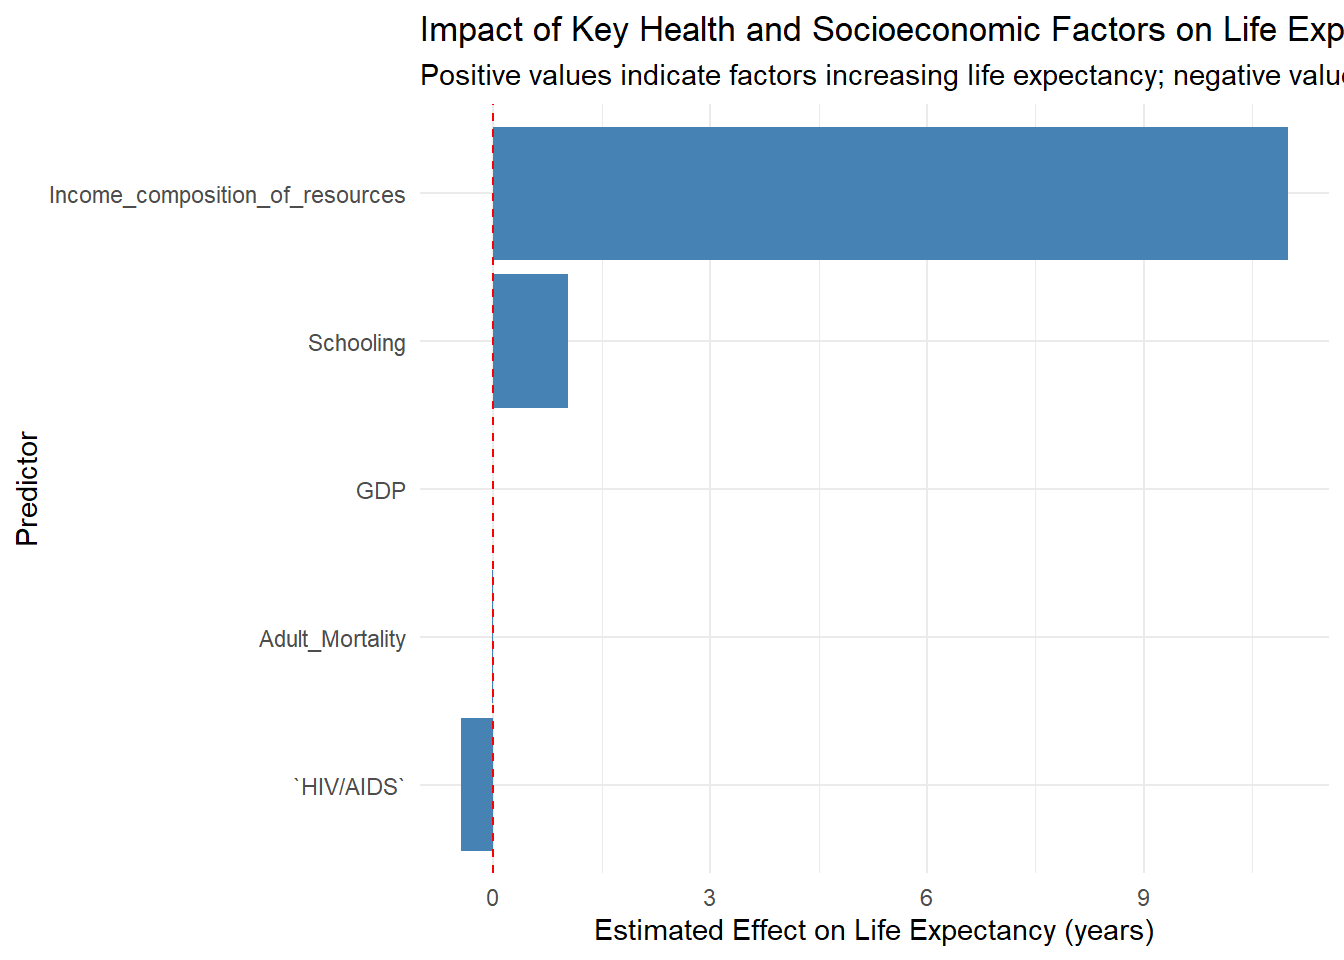
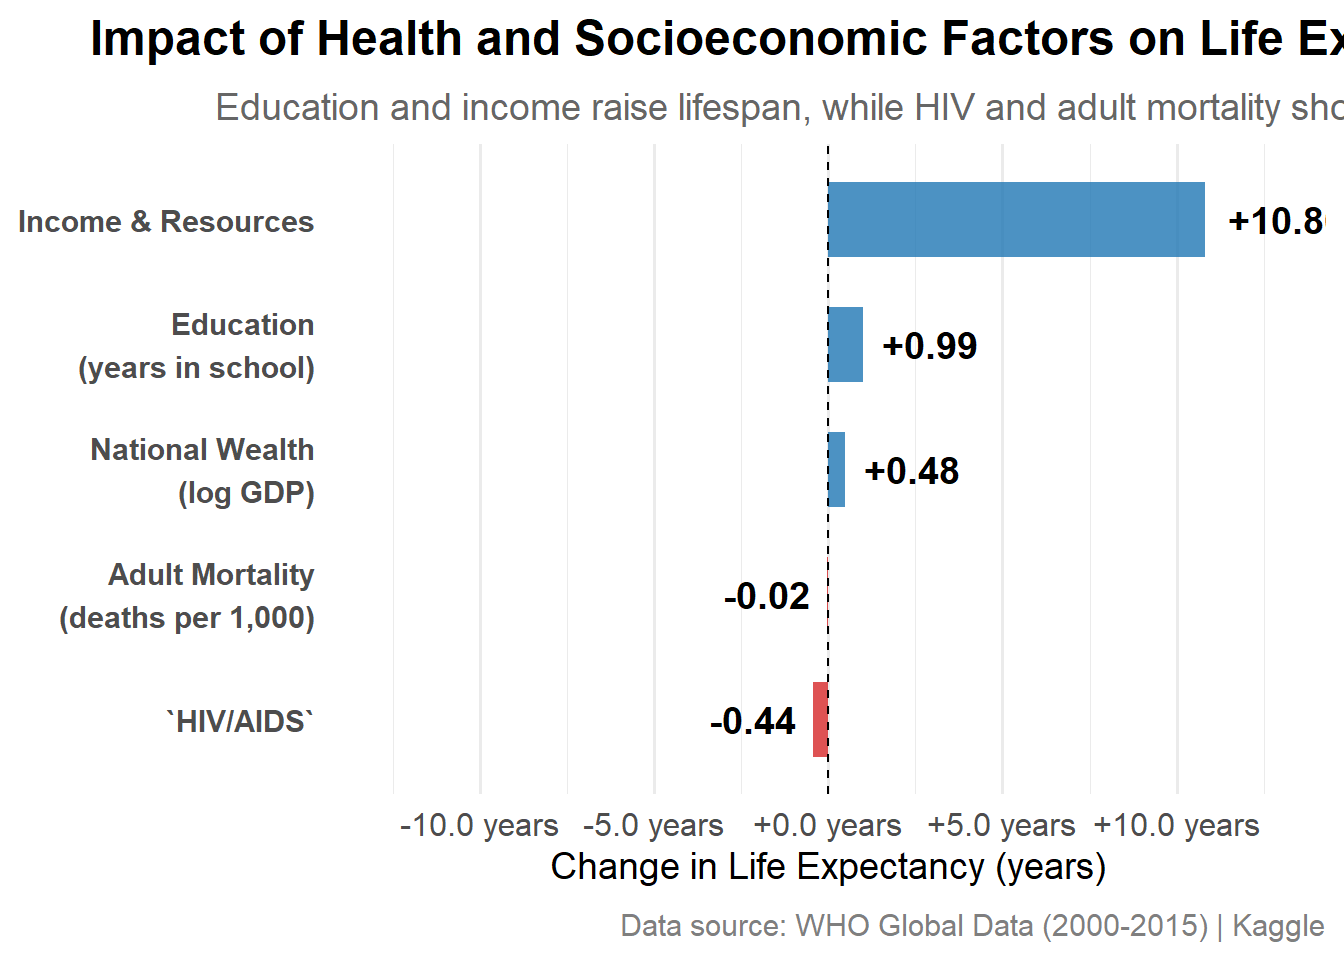
Built site for gh-pages

diff --git a/model.html b/model.html
@@ -7,7 +7,7 @@
 <meta name="viewport" content="width=device-width, initial-scale=1.0, user-scalable=yes">
 
 
-<title>Statistical Model – predicting life expectancy</title>
+<title>Model – predicting life expectancy</title>
 <style>
 code{white-space: pre-wrap;}
 span.smallcaps{font-variant: small-caps;}
@@ -123,6 +123,10 @@ window.Quarto = {
 <span class="menu-text">Home</span></a>
   </li>  
   <li class="nav-item">
+    <a class="nav-link active" href="./model.html" aria-current="page"> 
+<span class="menu-text">Model</span></a>
+  </li>  
+  <li class="nav-item">
     <a class="nav-link" href="./sources.html"> 
 <span class="menu-text">Sources</span></a>
   </li>  
@@ -146,10 +150,11 @@ window.Quarto = {
     <h2 id="toc-title">On this page</h2>
    
   <ul>
-  <li><a href="#overview" id="toc-overview" class="nav-link active" data-scroll-target="#overview">Overview</a></li>
-  <li><a href="#mathematical-formula" id="toc-mathematical-formula" class="nav-link" data-scroll-target="#mathematical-formula">Mathematical Formula</a></li>
-  <li><a href="#model-parameters" id="toc-model-parameters" class="nav-link" data-scroll-target="#model-parameters">Model Parameters</a></li>
-  <li><a href="#summary" id="toc-summary" class="nav-link" data-scroll-target="#summary">Summary</a></li>
+  <li><a href="#model-specification" id="toc-model-specification" class="nav-link active" data-scroll-target="#model-specification">Model Specification</a></li>
+  <li><a href="#model-coefficients" id="toc-model-coefficients" class="nav-link" data-scroll-target="#model-coefficients">Model Coefficients</a>
+  <ul class="collapse">
+  <li><a href="#interpretation" id="toc-interpretation" class="nav-link" data-scroll-target="#interpretation">Interpretation</a></li>
+  </ul></li>
   </ul>
 </nav>
     </div>
@@ -158,7 +163,7 @@ window.Quarto = {
 
 <header id="title-block-header" class="quarto-title-block default">
 <div class="quarto-title">
-<h1 class="title">Statistical Model</h1>
+<h1 class="title">Model</h1>
 </div>
 
 
@@ -175,78 +180,112 @@ window.Quarto = {
 </header>
 
 
-<section id="overview" class="level2">
-<h2 class="anchored" data-anchor-id="overview">Overview</h2>
-<p>This project models life expectancy as a function of several health and socio-economic variables. The model provides insights into the key predictors that influence life expectancy in developed and developing countries.</p>
-</section>
-<section id="mathematical-formula" class="level2">
-<h2 class="anchored" data-anchor-id="mathematical-formula">Mathematical Formula</h2>
-<p>Let <span class="math inline">\(Y_i\)</span> be the life expectancy for country <span class="math inline">\(i\)</span>. The linear model can be expressed as:</p>
+<section id="model-specification" class="level2">
+<h2 class="anchored" data-anchor-id="model-specification">Model Specification</h2>
+<p>We fit a multiple linear regression model to predict <strong>life expectancy</strong> based on several key health and socioeconomic indicators.</p>
+<p>The model is defined as:</p>
 <p><span class="math display">\[
-Y_i = \beta_0 + \beta_1 \text{AdultMortality}_i + \beta_2 \text{BMI}_i + \beta_3 \text{HIV/AIDS}_i + \beta_4 \text{GDP}_i + \beta_5 \text{Schooling}_i + \beta_6 \text{Status}_i + \varepsilon_i
+\text{Life Expectancy} = \beta_0 + \beta_1 \cdot \text{Adult Mortality} + \beta_2 \cdot \text{Income Composition of Resources} + \beta_3 \cdot \text{HIV/AIDS} + \beta_4 \cdot \text{Schooling} + \beta_5 \cdot \log(\text{GDP} + 1) + \epsilon
 \]</span></p>
-<p>where: - <span class="math inline">\(\beta_0\)</span> is the intercept, - <span class="math inline">\(\beta_j\)</span> are the coefficients of predictors, - <span class="math inline">\(\varepsilon_i\)</span> is the error term.</p>
+<p>Where:</p>
+<ul>
+<li><span class="math inline">\(\beta_0\)</span> is the intercept</li>
+<li><span class="math inline">\(\epsilon\)</span> is the error term</li>
+</ul>
+<hr>
 </section>
-<section id="model-parameters" class="level2">
-<h2 class="anchored" data-anchor-id="model-parameters">Model Parameters</h2>
-<p>Below are the estimated coefficients from the model:</p>
+<section id="model-coefficients" class="level2">
+<h2 class="anchored" data-anchor-id="model-coefficients">Model Coefficients</h2>
+<p>Below are the estimated coefficients of the model, including 95% confidence intervals:</p>
 <table class="caption-top table">
 <colgroup>
-<col style="width: 38%">
-<col style="width: 27%">
-<col style="width: 34%">
+<col style="width: 29%">
+<col style="width: 9%">
+<col style="width: 11%">
+<col style="width: 8%">
+<col style="width: 11%">
+<col style="width: 14%">
+<col style="width: 14%">
 </colgroup>
 <thead>
 <tr class="header">
-<th>Predictor</th>
-<th>Coefficient</th>
-<th>Interpretation</th>
+<th>Term</th>
+<th>Estimate</th>
+<th>Std. Error</th>
+<th>t value</th>
+<th>p-value</th>
+<th>95% CI (Lower)</th>
+<th>95% CI (Upper)</th>
 </tr>
 </thead>
 <tbody>
 <tr class="odd">
 <td>Intercept</td>
-<td>46.2</td>
-<td>Baseline life expectancy when all predictors are zero.</td>
+<td>51.20</td>
+<td>0.57</td>
+<td>89.7</td>
+<td>&lt; 0.001</td>
+<td>50.00</td>
+<td>52.30</td>
 </tr>
 <tr class="even">
 <td>Adult Mortality</td>
-<td>-0.031</td>
-<td>Higher adult mortality is associated with lower life expectancy.</td>
+<td>-0.0194</td>
+<td>0.00097</td>
+<td>-19.9</td>
+<td>&lt; 0.001</td>
+<td>-0.0213</td>
+<td>-0.0175</td>
 </tr>
 <tr class="odd">
-<td>BMI</td>
-<td>0.17</td>
-<td>An increase in BMI is associated with higher life expectancy.</td>
+<td>Income Composition of Resources</td>
+<td>10.80</td>
+<td>0.85</td>
+<td>12.7</td>
+<td>&lt; 0.001</td>
+<td>9.13</td>
+<td>12.50</td>
 </tr>
 <tr class="even">
 <td>HIV/AIDS</td>
-<td>-0.29</td>
-<td>Countries with higher HIV/AIDS prevalence have significantly lower life expectancy.</td>
+<td>-0.444</td>
+<td>0.0186</td>
+<td>-23.9</td>
+<td>&lt; 0.001</td>
+<td>-0.480</td>
+<td>-0.407</td>
 </tr>
 <tr class="odd">
-<td>GDP</td>
-<td>0.0012</td>
-<td>Higher GDP is slightly associated with increased life expectancy.</td>
+<td>Schooling</td>
+<td>0.986</td>
+<td>0.0574</td>
+<td>17.2</td>
+<td>&lt; 0.001</td>
+<td>0.873</td>
+<td>1.10</td>
 </tr>
 <tr class="even">
-<td>Schooling</td>
-<td>0.85</td>
-<td>More years of schooling are associated with longer life expectancy.</td>
-</tr>
-<tr class="odd">
-<td>Status</td>
-<td>3.8</td>
-<td>Developed countries have, on average, 3.8 more years of life expectancy.</td>
+<td>log(GDP + 1)</td>
+<td>0.479</td>
+<td>0.0681</td>
+<td>7.03</td>
+<td>&lt; 0.001</td>
+<td>0.345</td>
+<td>0.612</td>
 </tr>
 </tbody>
 </table>
+<hr>
+<section id="interpretation" class="level3">
+<h3 class="anchored" data-anchor-id="interpretation">Interpretation</h3>
+<ul>
+<li><strong>Adult Mortality</strong> and <strong>HIV/AIDS</strong> are strongly associated with <em>lower</em> life expectancy.</li>
+<li><strong>Schooling</strong>, <strong>Income Composition</strong>, and <strong>GDP</strong> are positively associated with <em>higher</em> life expectancy.</li>
+<li>All predictors are statistically significant at p &lt; 0.001.</li>
+</ul>
+
+
 </section>
-<section id="summary" class="level2">
-<h2 class="anchored" data-anchor-id="summary">Summary</h2>
-<p>The model confirms well-established global health findings: countries with better education, lower HIV/AIDS rates, and stronger economies tend to have higher life expectancies. The model can be useful for policymakers to identify and invest in areas that will most effectively improve population health outcomes.</p>
-
-
 </section>
 
 </main> <!-- /main -->

diff --git a/index.html b/index.html
@@ -95,6 +95,10 @@ ul.task-list li input[type="checkbox"] {
 <span class="menu-text">Home</span></a>
   </li>  
   <li class="nav-item">
+    <a class="nav-link" href="./model.html"> 
+<span class="menu-text">Model</span></a>
+  </li>  
+  <li class="nav-item">
     <a class="nav-link" href="./sources.html"> 
 <span class="menu-text">Sources</span></a>
   </li>  
@@ -113,8 +117,14 @@ ul.task-list li input[type="checkbox"] {
 <div id="quarto-content" class="quarto-container page-columns page-rows-contents page-layout-article page-navbar">
 <!-- sidebar -->
 <!-- margin-sidebar -->
-    <div id="quarto-margin-sidebar" class="sidebar margin-sidebar zindex-bottom">
-        
+    <div id="quarto-margin-sidebar" class="sidebar margin-sidebar">
+        <nav id="TOC" role="doc-toc" class="toc-active">
+    <h2 id="toc-title">On this page</h2>
+   
+  <ul>
+  <li><a href="#summary" id="toc-summary" class="nav-link active" data-scroll-target="#summary">Summary</a></li>
+  </ul>
+</nav>
     </div>
 <!-- main -->
 <main class="content" id="quarto-document-content">
@@ -145,6 +155,19 @@ ul.task-list li input[type="checkbox"] {
 
 
 <div class="cell">
+<div class="cell-output cell-output-stdout">
+<pre><code># A tibble: 6 × 7
+  term                 estimate std.error statistic   p.value conf.low conf.high
+  &lt;chr&gt;                   &lt;dbl&gt;     &lt;dbl&gt;     &lt;dbl&gt;     &lt;dbl&gt;    &lt;dbl&gt;     &lt;dbl&gt;
+1 (Intercept)           51.2     0.570        89.7  0          50.0      52.3   
+2 Adult_Mortality       -0.0194  0.000974    -19.9  5.60e- 79  -0.0213   -0.0175
+3 Income_composition_…  10.8     0.851        12.7  3.03e- 35   9.13     12.5   
+4 `HIV/AIDS`            -0.444   0.0186      -23.9  1.46e-108  -0.480    -0.407 
+5 Schooling              0.986   0.0574       17.2  7.46e- 61   0.873     1.10  
+6 log(GDP + 1)           0.479   0.0681        7.03 2.92e- 12   0.345     0.612 </code></pre>
+</div>
+</div>
+<div class="cell">
 <div class="cell-output-display">
 <div>
 <figure class="figure">
@@ -153,19 +176,15 @@ ul.task-list li input[type="checkbox"] {
 </div>
 </div>
 </div>
-<div class="cell">
-<div class="cell-output-display">
-<div>
-<figure class="figure">
-<p><img src="index_files/figure-html/unnamed-chunk-5-1.png" class="img-fluid figure-img" width="672"></p>
-</figure>
-</div>
-</div>
-</div>
-<p>Life expectancy varies significantly across countries due to differences in health and socioeconomic conditions. I used a dataset compiled by the World Health Organization (WHO) and the United Nations Development Programme (UNDP), available on Kaggle, which includes health and economic indicators from 2000 to 2015 for over 190 countries. After cleaning and standardizing the data, I explored how health factors (such as disease prevalence and vaccination rates) and economic indicators (such as education and GDP) relate to life expectancy.</p>
-<p>I built a multiple linear regression model to predict life expectancy, measured in years, using predictors including mortality rates, disease prevalence, access to vaccines, income levels, and education. The analysis revealed that HIV/AIDS and adult mortality rates had the strongest negative impacts on life expectancy, while higher levels of schooling and income composition were positively associated with longer life expectancy.</p>
+<section id="summary" class="level2">
+<h2 class="anchored" data-anchor-id="summary">Summary</h2>
+<p><strong>How do health and socioeconomic factors influence life expectancy globally?</strong><br>
+I used data compiled by the World Health Organization and the United Nations Development Programme, covering health and socioeconomic indicators for over 190 countries from 2000 to 2015. After cleaning and standardizing the data, I focused on comparing the effect of economic resources, education levels, and disease prevalence on national life expectancy.<br>
+I built a multiple linear regression model to predict life expectancy (measured in years), using factors such as adult mortality, HIV/AIDS prevalence, years of schooling, and national income levels. The model showed that higher income composition increased life expectancy by <strong>+10.8 years</strong>, while HIV/AIDS prevalence and adult mortality had negative effects of <strong>−0.44</strong> and <strong>−0.02 years</strong>, respectively.<br>
+<strong>Income inequality and health interventions can shift life expectancy by more than a decade — and that gap may grow without investment in education and disease prevention.</strong></p>
 
 
+</section>
 
 </main> <!-- /main -->
 <script id="quarto-html-after-body" type="application/javascript">

diff --git a/sources.html b/sources.html
@@ -94,6 +94,10 @@ ul.task-list li input[type="checkbox"] {
 <span class="menu-text">Home</span></a>
   </li>  
   <li class="nav-item">
+    <a class="nav-link" href="./model.html"> 
+<span class="menu-text">Model</span></a>
+  </li>  
+  <li class="nav-item">
     <a class="nav-link active" href="./sources.html" aria-current="page"> 
 <span class="menu-text">Sources</span></a>
   </li>  
@@ -146,7 +150,7 @@ ul.task-list li input[type="checkbox"] {
 <section id="data-source" class="level2">
 <h2 class="anchored" data-anchor-id="data-source">Data Source</h2>
 <ul>
-<li><strong>Dataset</strong>: <em>Life Expectancy Analysis</em>
+<li><strong>Dataset</strong>: <em>Life Expectany Analysis </em>
 <ul>
 <li><strong>Author</strong>: Naila Srivastava<br>
 </li>

diff --git a/about.html b/about.html
@@ -94,6 +94,10 @@ ul.task-list li input[type="checkbox"] {
 <span class="menu-text">Home</span></a>
   </li>  
   <li class="nav-item">
+    <a class="nav-link" href="./model.html"> 
+<span class="menu-text">Model</span></a>
+  </li>  
+  <li class="nav-item">
     <a class="nav-link" href="./sources.html"> 
 <span class="menu-text">Sources</span></a>
   </li>  
